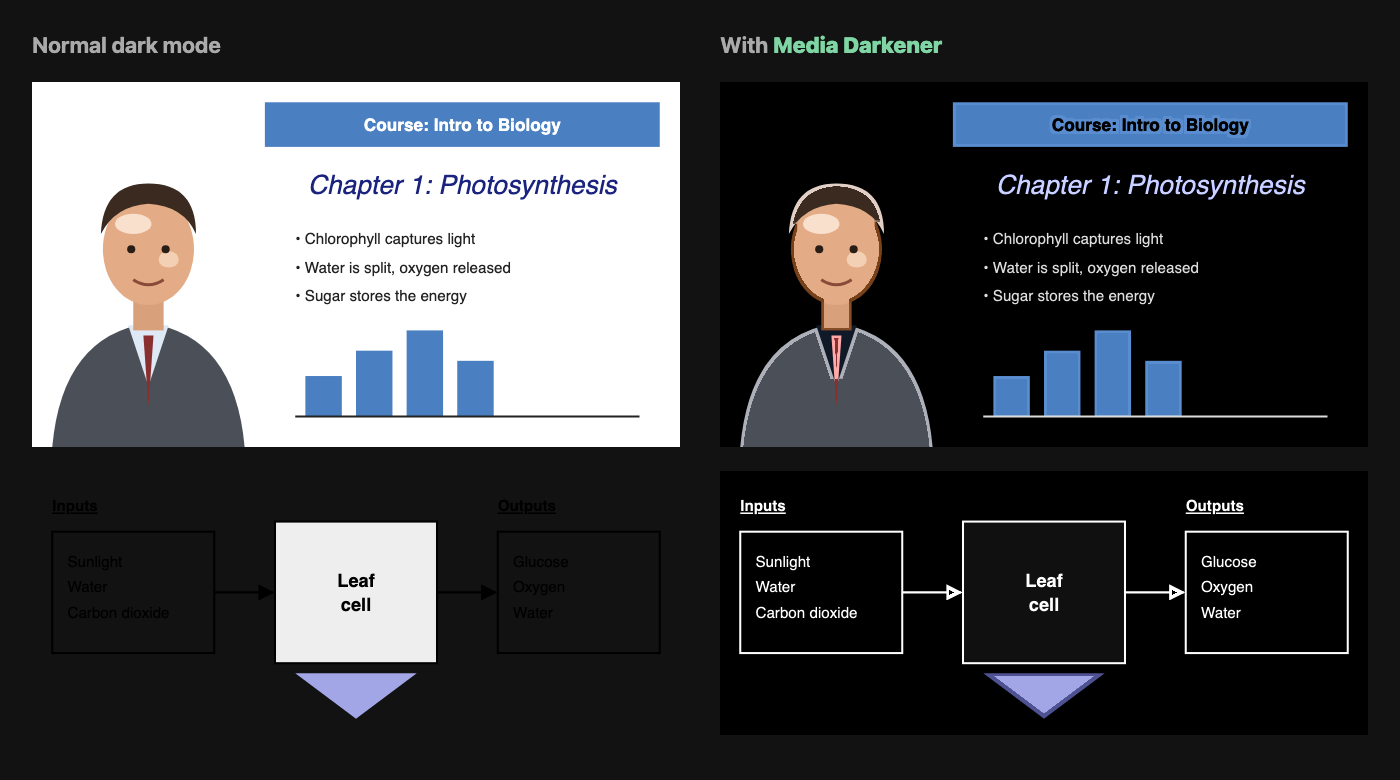
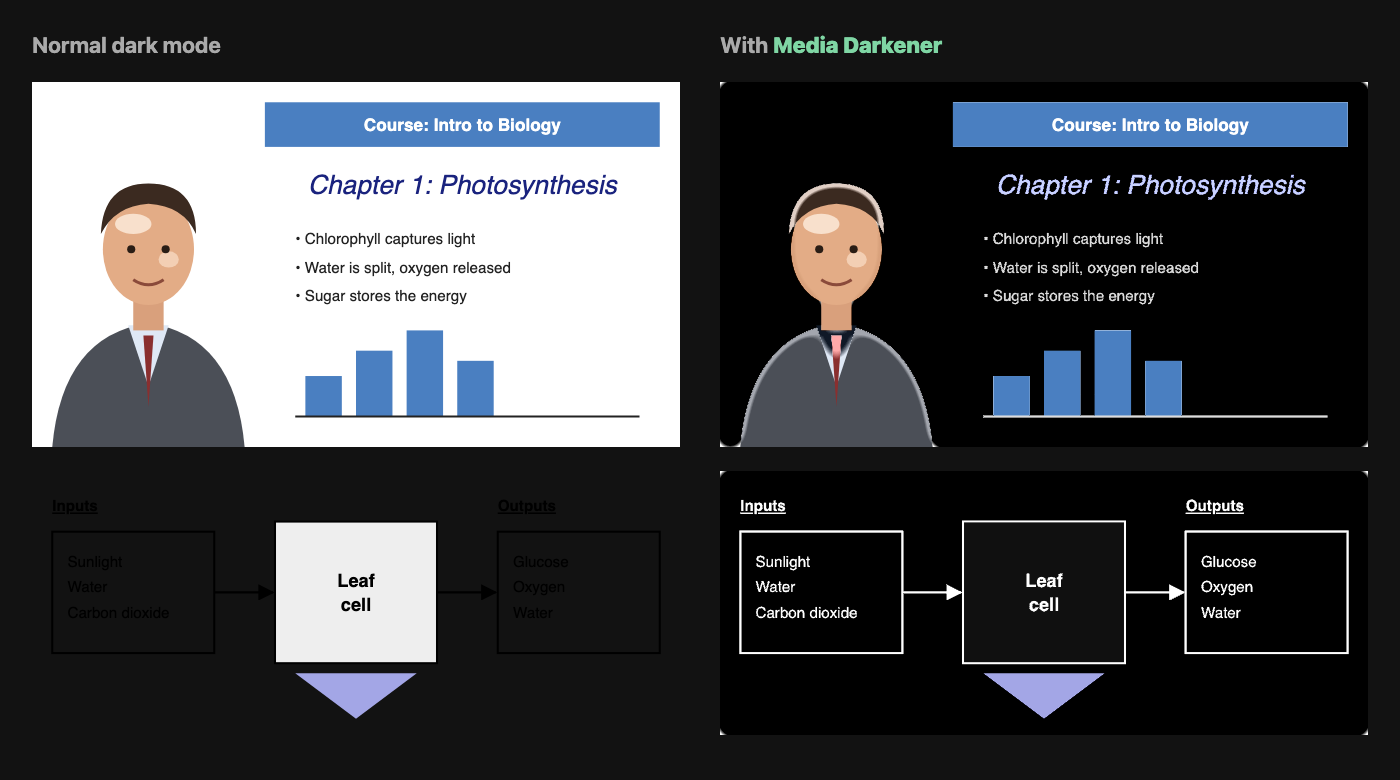
Leave already-dark images alone
Replace the 3px dilate with a brightness-density mask: only areas that are mostly bright
are inverted, so white text on an already-dark image (e.g. the README demo) is untouched.
Inside those areas flip only paper and ink pixels, so mid-tone colours keep theirs.

diff --git a/extension/media-darkener.js b/extension/media-darkener.js
@@ -1,10 +1,12 @@
 // Bookmark URLs lose newlines, so invert() must not contain // comments.
 // Transparent pixels are flattened onto white first, so transparent PNGs with dark text count as background.
-// Invert only bright areas (slide background), dilated so thin dark text inside is covered too.
+// Invert only areas that are mostly bright (blur the bright mask, keep where density > ~35%):
+// a slide background plus the dark text inside it qualifies; white text on a dark image, or a
+// highlight on a face, is too sparse and is left alone. Inside that area only paper (luma > 0.8) and
+// ink (luma < 0.3) flip; mid-tone colours (chart bars, skin) are left as they are.
 // Large dark areas (a person) stay original. Background = bright AND not warm: luma - 3*max(R-B,0), so skin highlights are skipped.
 // Only warm is penalised: compressed white text on blue picks up a blue tint and must still count.
-// No erode to drop bright specks: it breaks letter counters in bold text.
-// ponytail: fixed threshold 0.8-0.9, penalty 3, radius 3px; tune if text or faces misbehave.
+// ponytail: fixed brightness 0.8-0.9, warm penalty 3, blur 10px, density 0.3-0.4; tune if text or faces misbehave.
 // No innerHTML: sites with Trusted Types (YouTube) block it, so build nodes with DOM calls.
 function invert() {
   const s = document.getElementById('__inv');
@@ -27,7 +29,11 @@ function invert() {
       el('feColorMatrix', {in: 'src', values: '1 0 -1 0 0 0 0 0 0 0 .2126 .7152 .0722 0 0 0 0 0 0 1'}),
       el('feColorMatrix', {values: '0 0 0 0 0 0 0 0 0 0 0 0 0 0 0 -3 0 1 0 0'}),
       el('feComponentTransfer', {}, el('feFuncA', {type: 'linear', slope: 10, intercept: -8})),
-      el('feMorphology', {operator: 'dilate', radius: 3, result: 'mask'}),
+      el('feGaussianBlur', {stdDeviation: 10}),
+      el('feComponentTransfer', {result: 'dense'}, el('feFuncA', {type: 'linear', slope: 10, intercept: -3})),
+      el('feColorMatrix', {in: 'src', values: '0 0 0 0 0 0 0 0 0 0 0 0 0 0 0 .2126 .7152 .0722 0 0'}),
+      el('feComponentTransfer', {}, el('feFuncA', {type: 'table', tableValues: '1 1 1 1 0 0 0 0 1 1 1'})),
+      el('feComposite', {in2: 'dense', operator: 'in', result: 'mask'}),
       el('feComposite', {in: 'inv', in2: 'mask', operator: 'in'}),
       el('feComposite', {in2: 'src', operator: 'over'})));
   const e = document.createElement('div');

diff --git a/README.md b/README.md
@@ -36,14 +36,16 @@ An SVG filter applied to `img`, `video`, `iframe` and background-image elements:
 
 1. Flatten transparency onto white, so dark text on transparent PNGs counts as foreground.
 2. Mask pixels that are bright and not warm (`luma - 3 * max(R - B, 0)` above ~0.85), so skin highlights are skipped.
-3. Dilate the mask by 3px so thin text inside the background is covered too.
-4. Invert (plus 180° hue rotate to keep colours) only inside the mask.
+3. Blur the mask and keep only areas that are mostly bright. Dark text inside a white slide is included; white text on an already-dark image, or a small highlight, is not.
+4. Inside those areas flip only paper (very bright) and ink (very dark) pixels, so mid-tone colours such as chart bars and skin stay as they are.
+5. Invert (plus 180° hue rotate to keep colours) only inside the mask.
 
-Tuning knobs live in `invert()` in `extension/media-darkener.js`: threshold (`slope`/`intercept`), warm penalty (`-3`), dilate `radius`.
+Tuning knobs live in `invert()` in `extension/media-darkener.js`: threshold (`slope`/`intercept`), warm penalty (`-3`), blur `stdDeviation`, density threshold.
 
 ## Limits
 
-- Bright text inside photos or on coloured bars turns dark with a light outline.
+- Dark text on a dark background (for example a screenshot already taken in dark mode) stays dark: there is nothing bright to flip.
+- The edges of inverted areas get a faint light glow.
 - Warm light backgrounds (cream slides) are not inverted.
 - Elements added after clicking are covered; iframes are filtered as a whole.
 
